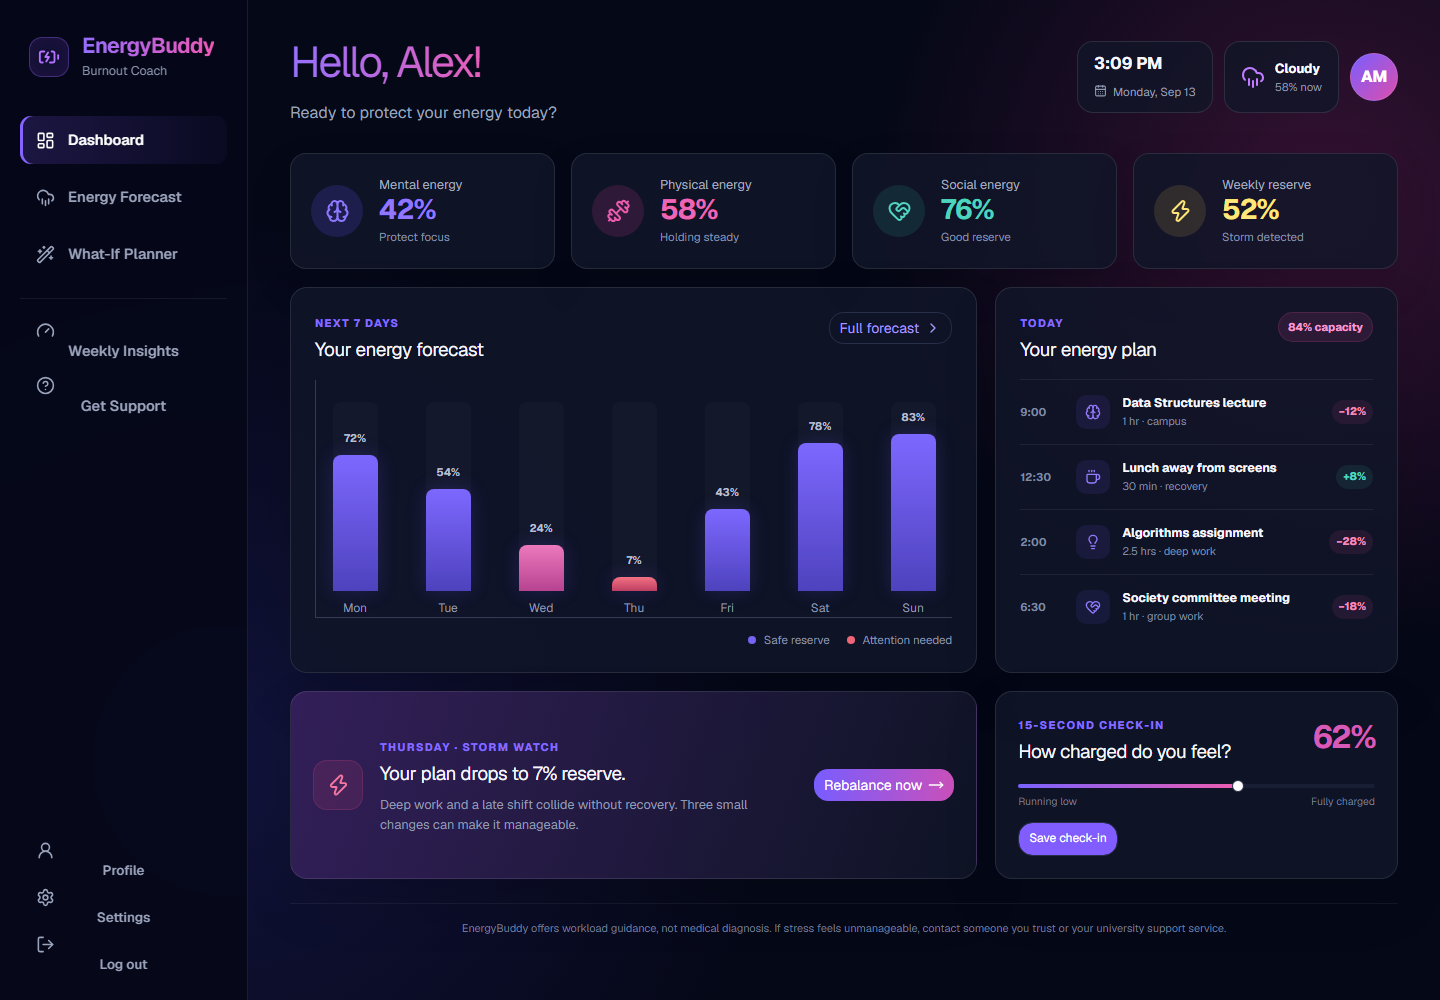
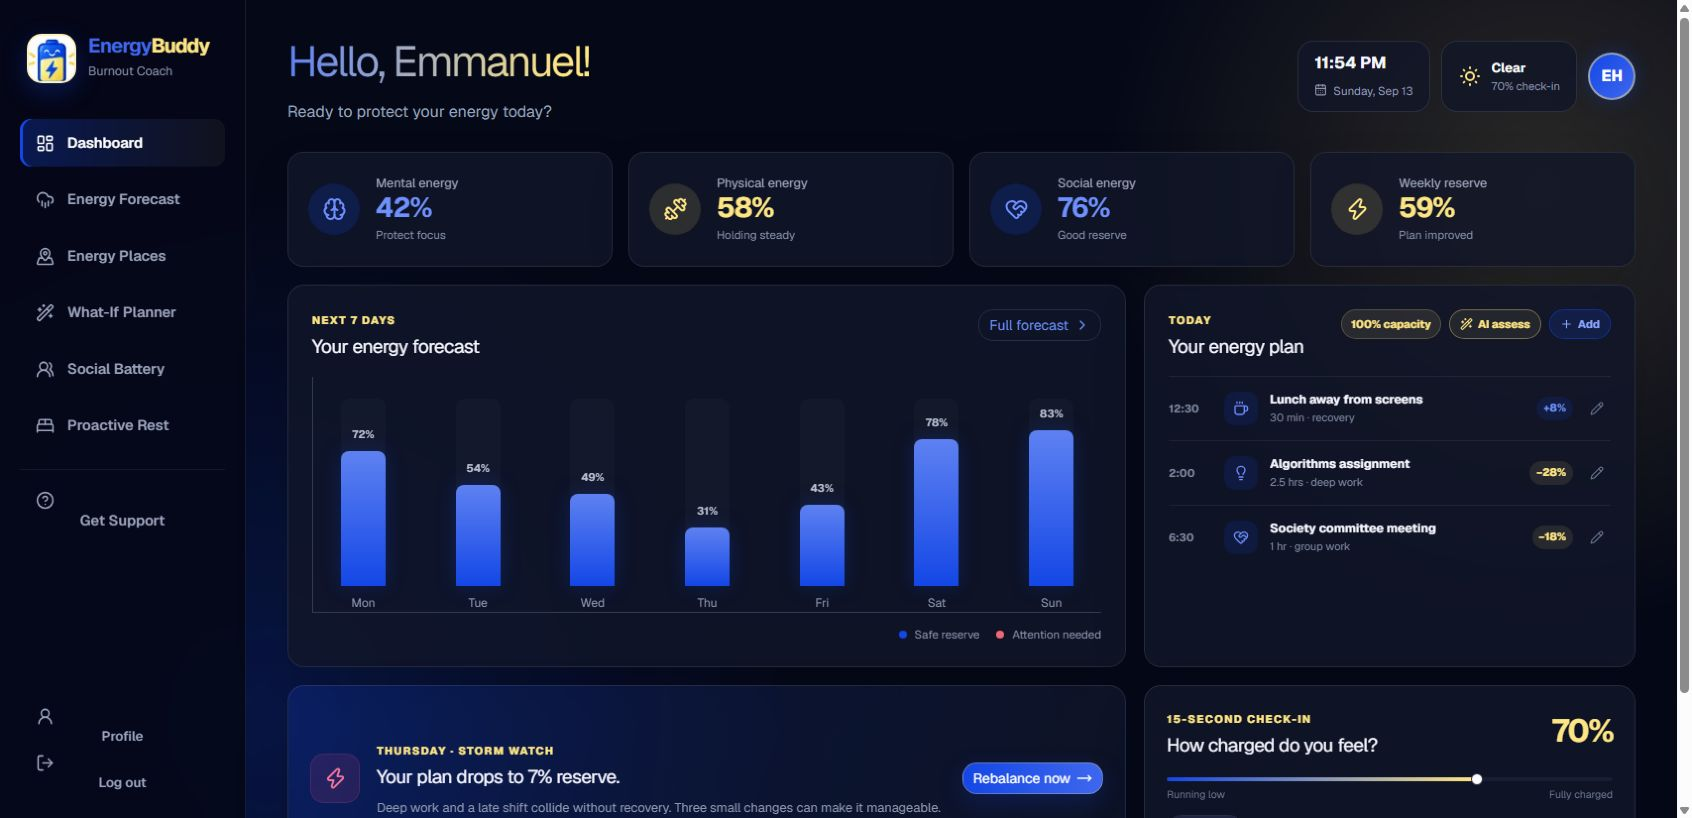
Refresh README with latest UI screenshots

diff --git a/README.md b/README.md
@@ -262,11 +262,11 @@ Direct prototype views:
 
 | Today dashboard | Seven-day forecast |
 |---|---|
-| ![Today dashboard with three energy batteries](docs/screens/01-today.png) | ![Seven-day energy weather forecast](docs/screens/02-forecast.png) |
+| ![Latest EnergyBuddy dashboard with energy summary, forecast, editable plan and daily check-in](docs/screens/01-today.png) | ![Latest seven-day energy forecast with explainable reserve levels](docs/screens/02-forecast.png) |
 
-| What-If comparison | Balanced plan applied |
+| Social Battery | Proactive Rest |
 |---|---|
-| ![What-If planner comparing current and balanced schedules](docs/screens/03-what-if.png) | ![What-If planner after applying the balanced schedule](docs/screens/04-balanced.png) |
+| ![Social Battery dashboard with meeting load, hard-stop timer and Ghost Mode](docs/screens/03-social-battery.png) | ![Proactive Rest dashboard with rest quests and recharge curve](docs/screens/04-proactive-rest.png) |
 
 ## 8. Design decisions
 
